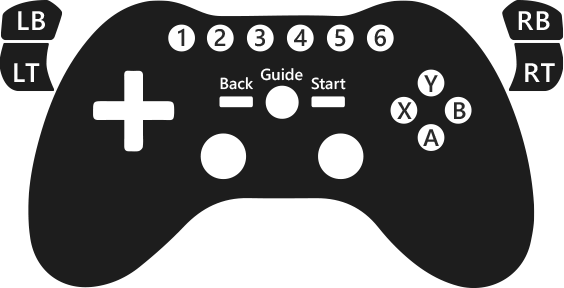
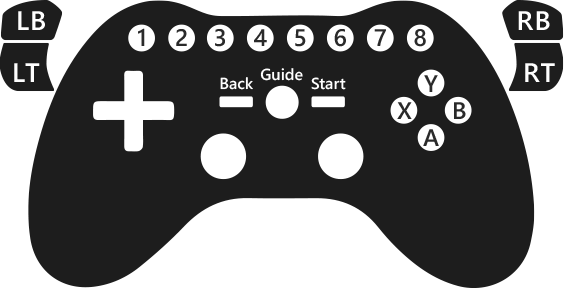
- Added support for two extra buttons.

diff --git a/DirectXInput/WindowMain.xaml b/DirectXInput/WindowMain.xaml
@@ -177,12 +177,14 @@
                         <Image Name="img_ControllerPreview_ButtonStart" Source="pack://siteoforigin:,,,/Assets/Default/Controller/ButtonPress.png" Width="25" Height="25" Margin="278,0,196,70"/>
                         <Image Name="img_ControllerPreview_ButtonGuide" Source="pack://siteoforigin:,,,/Assets/Default/Controller/ButtonPress.png" Width="30" Height="30" Margin="235,0,235,75"/>
 
-                        <Image Name="img_ControllerPreview_ButtonOne" Source="pack://siteoforigin:,,,/Assets/Default/Controller/ButtonPress.png" Width="30" Height="30" Margin="-177,0,0,188"/>
-                        <Image Name="img_ControllerPreview_ButtonTwo" Source="pack://siteoforigin:,,,/Assets/Default/Controller/ButtonPress.png" Width="30" Height="30" Margin="-107,0,0,188"/>
-                        <Image Name="img_ControllerPreview_ButtonThree" Source="pack://siteoforigin:,,,/Assets/Default/Controller/ButtonPress.png" Width="30" Height="30" Margin="-37,0,0,188"/>
-                        <Image Name="img_ControllerPreview_ButtonFour" Source="pack://siteoforigin:,,,/Assets/Default/Controller/ButtonPress.png" Width="30" Height="30" Margin="33,0,0,188"/>
-                        <Image Name="img_ControllerPreview_ButtonFive" Source="pack://siteoforigin:,,,/Assets/Default/Controller/ButtonPress.png" Width="30" Height="30" Margin="103,0,0,188"/>
-                        <Image Name="img_ControllerPreview_ButtonSix" Source="pack://siteoforigin:,,,/Assets/Default/Controller/ButtonPress.png" Width="30" Height="30" Margin="173,0,0,188"/>
+                        <Image Name="img_ControllerPreview_ButtonOne" Source="pack://siteoforigin:,,,/Assets/Default/Controller/ButtonPress.png" Width="30" Height="30" Margin="-247,0,0,188"/>
+                        <Image Name="img_ControllerPreview_ButtonTwo" Source="pack://siteoforigin:,,,/Assets/Default/Controller/ButtonPress.png" Width="30" Height="30" Margin="-177,0,0,188"/>
+                        <Image Name="img_ControllerPreview_ButtonThree" Source="pack://siteoforigin:,,,/Assets/Default/Controller/ButtonPress.png" Width="30" Height="30" Margin="-107,0,0,188"/>
+                        <Image Name="img_ControllerPreview_ButtonFour" Source="pack://siteoforigin:,,,/Assets/Default/Controller/ButtonPress.png" Width="30" Height="30" Margin="-37,0,0,188"/>
+                        <Image Name="img_ControllerPreview_ButtonFive" Source="pack://siteoforigin:,,,/Assets/Default/Controller/ButtonPress.png" Width="30" Height="30" Margin="37,0,0,188"/>
+                        <Image Name="img_ControllerPreview_ButtonSix" Source="pack://siteoforigin:,,,/Assets/Default/Controller/ButtonPress.png" Width="30" Height="30" Margin="107,0,0,188"/>
+                        <Image Name="img_ControllerPreview_ButtonSeven" Source="pack://siteoforigin:,,,/Assets/Default/Controller/ButtonPress.png" Width="30" Height="30" Margin="177,0,0,188"/>
+                        <Image Name="img_ControllerPreview_ButtonEight" Source="pack://siteoforigin:,,,/Assets/Default/Controller/ButtonPress.png" Width="30" Height="30" Margin="247,0,0,188"/>
 
                         <Image Name="img_ControllerPreview_ButtonThumbLeft" Source="pack://siteoforigin:,,,/Assets/Default/Controller/ButtonPress.png" Width="42" Height="42" Margin="178,117,280,96"/>
                         <Image Name="img_ControllerPreview_ButtonThumbRight" Source="pack://siteoforigin:,,,/Assets/Default/Controller/ButtonPress.png" Width="42" Height="42" Margin="282,117,176,96"/>
@@ -223,12 +225,14 @@
                         <Button Name="btn_SetGuide" HorizontalAlignment="Center" VerticalAlignment="Center" Style="{StaticResource ButtonImageTransparentNoBorder}" Margin="235,0,235,75" Height="30" Width="30" ToolTipService.ToolTip="Button Guide"/>
                         <Button Name="btn_SetStart" HorizontalAlignment="Center" VerticalAlignment="Center" Style="{StaticResource ButtonImageTransparentNoBorder}" Margin="275,0,195,70" Width="30" Height="20" ToolTipService.ToolTip="Button Start"/>
 
-                        <Button Name="btn_SetOne" HorizontalAlignment="Center" VerticalAlignment="Center" Style="{StaticResource ButtonImageTransparentNoBorder}" Margin="-177,0,0,188" Width="30" Height="30" ToolTipService.ToolTip="Button One"/>
-                        <Button Name="btn_SetTwo" HorizontalAlignment="Center" VerticalAlignment="Center" Style="{StaticResource ButtonImageTransparentNoBorder}" Margin="-107,0,0,188" Width="30" Height="30" ToolTipService.ToolTip="Button Two"/>
-                        <Button Name="btn_SetThree" HorizontalAlignment="Center" VerticalAlignment="Center" Style="{StaticResource ButtonImageTransparentNoBorder}" Margin="-37,0,0,188" Width="30" Height="30" ToolTipService.ToolTip="Button Three"/>
-                        <Button Name="btn_SetFour" HorizontalAlignment="Center" VerticalAlignment="Center" Style="{StaticResource ButtonImageTransparentNoBorder}" Margin="33,0,0,188" Width="30" Height="30" ToolTipService.ToolTip="Button Four"/>
-                        <Button Name="btn_SetFive" HorizontalAlignment="Center" VerticalAlignment="Center" Style="{StaticResource ButtonImageTransparentNoBorder}" Margin="103,0,0,188" Width="30" Height="30" ToolTipService.ToolTip="Button Five"/>
-                        <Button Name="btn_SetSix" HorizontalAlignment="Center" VerticalAlignment="Center" Style="{StaticResource ButtonImageTransparentNoBorder}" Margin="173,0,0,188" Width="30" Height="30" ToolTipService.ToolTip="Button Six"/>
+                        <Button Name="btn_SetOne" HorizontalAlignment="Center" VerticalAlignment="Center" Style="{StaticResource ButtonImageTransparentNoBorder}" Margin="-247,0,0,188" Width="30" Height="30" ToolTipService.ToolTip="Button One"/>
+                        <Button Name="btn_SetTwo" HorizontalAlignment="Center" VerticalAlignment="Center" Style="{StaticResource ButtonImageTransparentNoBorder}" Margin="-177,0,0,188" Width="30" Height="30" ToolTipService.ToolTip="Button Two"/>
+                        <Button Name="btn_SetThree" HorizontalAlignment="Center" VerticalAlignment="Center" Style="{StaticResource ButtonImageTransparentNoBorder}" Margin="-107,0,0,188" Width="30" Height="30" ToolTipService.ToolTip="Button Three"/>
+                        <Button Name="btn_SetFour" HorizontalAlignment="Center" VerticalAlignment="Center" Style="{StaticResource ButtonImageTransparentNoBorder}" Margin="-37,0,0,188" Width="30" Height="30" ToolTipService.ToolTip="Button Four"/>
+                        <Button Name="btn_SetFive" HorizontalAlignment="Center" VerticalAlignment="Center" Style="{StaticResource ButtonImageTransparentNoBorder}" Margin="37,0,0,188" Width="30" Height="30" ToolTipService.ToolTip="Button Five"/>
+                        <Button Name="btn_SetSix" HorizontalAlignment="Center" VerticalAlignment="Center" Style="{StaticResource ButtonImageTransparentNoBorder}" Margin="107,0,0,188" Width="30" Height="30" ToolTipService.ToolTip="Button Six"/>
+                        <Button Name="btn_SetSeven" HorizontalAlignment="Center" VerticalAlignment="Center" Style="{StaticResource ButtonImageTransparentNoBorder}" Margin="177,0,0,188" Width="30" Height="30" ToolTipService.ToolTip="Button Seven"/>
+                        <Button Name="btn_SetEight" HorizontalAlignment="Center" VerticalAlignment="Center" Style="{StaticResource ButtonImageTransparentNoBorder}" Margin="247,0,0,188" Width="30" Height="30" ToolTipService.ToolTip="Button Eight"/>
 
                         <!-- Trigger Details -->
                         <TextBlock Name="textblock_Trigger_Left" Text="0" Width="50" TextAlignment="Center" Style="{StaticResource TextBlockWhite}" HorizontalAlignment="Center" VerticalAlignment="Center" Margin="-455,-163,0,0"/>

diff --git a/DirectXInput/Controller/ControllerPreview.cs b/DirectXInput/Controller/ControllerPreview.cs
@@ -132,6 +132,8 @@ namespace DirectXInput
                     if (controller.InputCurrent.Buttons[(byte)ControllerButtons.Four].PressedRaw) { img_ControllerPreview_ButtonFour.Visibility = Visibility.Visible; } else { img_ControllerPreview_ButtonFour.Visibility = Visibility.Collapsed; }
                     if (controller.InputCurrent.Buttons[(byte)ControllerButtons.Five].PressedRaw) { img_ControllerPreview_ButtonFive.Visibility = Visibility.Visible; } else { img_ControllerPreview_ButtonFive.Visibility = Visibility.Collapsed; }
                     if (controller.InputCurrent.Buttons[(byte)ControllerButtons.Six].PressedRaw) { img_ControllerPreview_ButtonSix.Visibility = Visibility.Visible; } else { img_ControllerPreview_ButtonSix.Visibility = Visibility.Collapsed; }
+                    if (controller.InputCurrent.Buttons[(byte)ControllerButtons.Seven].PressedRaw) { img_ControllerPreview_ButtonSeven.Visibility = Visibility.Visible; } else { img_ControllerPreview_ButtonSeven.Visibility = Visibility.Collapsed; }
+                    if (controller.InputCurrent.Buttons[(byte)ControllerButtons.Eight].PressedRaw) { img_ControllerPreview_ButtonEight.Visibility = Visibility.Visible; } else { img_ControllerPreview_ButtonEight.Visibility = Visibility.Collapsed; }
 
                     if (controller.InputCurrent.Buttons[(byte)ControllerButtons.ShoulderLeft].PressedRaw) { img_ControllerPreview_ButtonShoulderLeft.Visibility = Visibility.Visible; } else { img_ControllerPreview_ButtonShoulderLeft.Visibility = Visibility.Collapsed; }
                     if (controller.InputCurrent.Buttons[(byte)ControllerButtons.ShoulderRight].PressedRaw) { img_ControllerPreview_ButtonShoulderRight.Visibility = Visibility.Visible; } else { img_ControllerPreview_ButtonShoulderRight.Visibility = Visibility.Collapsed; }

diff --git a/DirectXInput/Controller/ControllerMapping.cs b/DirectXInput/Controller/ControllerMapping.cs
@@ -79,6 +79,8 @@ namespace DirectXInput
                 else if (vMappingControllerButton == btn_SetFour) { activeController.Details.Profile.ButtonFour = ControllerButtons.None; }
                 else if (vMappingControllerButton == btn_SetFive) { activeController.Details.Profile.ButtonFive = ControllerButtons.None; }
                 else if (vMappingControllerButton == btn_SetSix) { activeController.Details.Profile.ButtonSix = ControllerButtons.None; }
+                else if (vMappingControllerButton == btn_SetSeven) { activeController.Details.Profile.ButtonSeven = ControllerButtons.None; }
+                else if (vMappingControllerButton == btn_SetEight) { activeController.Details.Profile.ButtonEight = ControllerButtons.None; }
 
                 //Save changes to Json file
                 JsonSaveObject(activeController.Details.Profile, GenerateJsonNameControllerProfile(activeController.Details.Profile));
@@ -123,6 +125,8 @@ namespace DirectXInput
                 else if (vMappingControllerButton == btn_SetFour) { activeController.Details.Profile.ButtonFour = null; }
                 else if (vMappingControllerButton == btn_SetFive) { activeController.Details.Profile.ButtonFive = null; }
                 else if (vMappingControllerButton == btn_SetSix) { activeController.Details.Profile.ButtonSix = null; }
+                else if (vMappingControllerButton == btn_SetSeven) { activeController.Details.Profile.ButtonSeven = null; }
+                else if (vMappingControllerButton == btn_SetEight) { activeController.Details.Profile.ButtonEight = null; }
 
                 //Save changes to Json file
                 JsonSaveObject(activeController.Details.Profile, GenerateJsonNameControllerProfile(activeController.Details.Profile));

diff --git a/DirectXInput/Controller/ControllerIdle.cs b/DirectXInput/Controller/ControllerIdle.cs
@@ -67,7 +67,7 @@ namespace DirectXInput
                     return false;
                 }
 
-                if (controllerStatus.InputCurrent.Buttons[(byte)ControllerButtons.One].PressedRaw || controllerStatus.InputCurrent.Buttons[(byte)ControllerButtons.Two].PressedRaw || controllerStatus.InputCurrent.Buttons[(byte)ControllerButtons.Three].PressedRaw || controllerStatus.InputCurrent.Buttons[(byte)ControllerButtons.Four].PressedRaw || controllerStatus.InputCurrent.Buttons[(byte)ControllerButtons.Five].PressedRaw || controllerStatus.InputCurrent.Buttons[(byte)ControllerButtons.Six].PressedRaw)
+                if (controllerStatus.InputCurrent.Buttons[(byte)ControllerButtons.One].PressedRaw || controllerStatus.InputCurrent.Buttons[(byte)ControllerButtons.Two].PressedRaw || controllerStatus.InputCurrent.Buttons[(byte)ControllerButtons.Three].PressedRaw || controllerStatus.InputCurrent.Buttons[(byte)ControllerButtons.Four].PressedRaw || controllerStatus.InputCurrent.Buttons[(byte)ControllerButtons.Five].PressedRaw || controllerStatus.InputCurrent.Buttons[(byte)ControllerButtons.Six].PressedRaw || controllerStatus.InputCurrent.Buttons[(byte)ControllerButtons.Seven].PressedRaw || controllerStatus.InputCurrent.Buttons[(byte)ControllerButtons.Eight].PressedRaw)
                 {
                     return false;
                 }

diff --git a/DirectXInput/Input/InputButtons.cs b/DirectXInput/Input/InputButtons.cs
@@ -59,6 +59,10 @@ namespace DirectXInput
                         return ReadButtonDataRaw(controller, controller.SupportedCurrent.OffsetButton.Five);
                     case ControllerButtons.Six:
                         return ReadButtonDataRaw(controller, controller.SupportedCurrent.OffsetButton.Six);
+                    case ControllerButtons.Seven:
+                        return ReadButtonDataRaw(controller, controller.SupportedCurrent.OffsetButton.Seven);
+                    case ControllerButtons.Eight:
+                        return ReadButtonDataRaw(controller, controller.SupportedCurrent.OffsetButton.Eight);
                 }
             }
             catch { }
@@ -156,6 +160,8 @@ namespace DirectXInput
                 UpdateButtonData(controller, ControllerButtons.Four, controller.Details.Profile.ButtonFour);
                 UpdateButtonData(controller, ControllerButtons.Five, controller.Details.Profile.ButtonFive);
                 UpdateButtonData(controller, ControllerButtons.Six, controller.Details.Profile.ButtonSix);
+                UpdateButtonData(controller, ControllerButtons.Seven, controller.Details.Profile.ButtonSeven);
+                UpdateButtonData(controller, ControllerButtons.Eight, controller.Details.Profile.ButtonEight);
 
                 return true;
             }

diff --git a/DirectXInput/Library/Classes/ControllerProfile.cs b/DirectXInput/Library/Classes/ControllerProfile.cs
@@ -245,6 +245,34 @@ namespace LibraryShared
                 }
             }
 
+            private ControllerButtons? PrivButtonSeven;
+            public ControllerButtons? ButtonSeven
+            {
+                get { return this.PrivButtonSeven; }
+                set
+                {
+                    if (this.PrivButtonSeven != value)
+                    {
+                        this.PrivButtonSeven = value;
+                        NotifyPropertyChanged();
+                    }
+                }
+            }
+
+            private ControllerButtons? PrivButtonEight;
+            public ControllerButtons? ButtonEight
+            {
+                get { return this.PrivButtonEight; }
+                set
+                {
+                    if (this.PrivButtonEight != value)
+                    {
+                        this.PrivButtonEight = value;
+                        NotifyPropertyChanged();
+                    }
+                }
+            }
+
             private ControllerButtons? PrivButtonThumbLeft;
             public ControllerButtons? ButtonThumbLeft
             {

diff --git a/DirectXInput/Input/InputMapping.cs b/DirectXInput/Input/InputMapping.cs
@@ -71,6 +71,8 @@ namespace DirectXInput
                             else if (vMappingControllerButton == btn_SetFour) { controller.Details.Profile.ButtonFour = mappingButton; }
                             else if (vMappingControllerButton == btn_SetFive) { controller.Details.Profile.ButtonFive = mappingButton; }
                             else if (vMappingControllerButton == btn_SetSix) { controller.Details.Profile.ButtonSix = mappingButton; }
+                            else if (vMappingControllerButton == btn_SetSeven) { controller.Details.Profile.ButtonSeven = mappingButton; }
+                            else if (vMappingControllerButton == btn_SetEight) { controller.Details.Profile.ButtonEight = mappingButton; }
                         }
                         catch { }
                     });

diff --git a/DirectXInput/InterfaceFunctions.cs b/DirectXInput/InterfaceFunctions.cs
@@ -418,6 +418,8 @@ namespace DirectXInput
                 btn_SetFour.PreviewMouseLeftButtonUp += Btn_MapController_Mouse_Set;
                 btn_SetFive.PreviewMouseLeftButtonUp += Btn_MapController_Mouse_Set;
                 btn_SetSix.PreviewMouseLeftButtonUp += Btn_MapController_Mouse_Set;
+                btn_SetSeven.PreviewMouseLeftButtonUp += Btn_MapController_Mouse_Set;
+                btn_SetEight.PreviewMouseLeftButtonUp += Btn_MapController_Mouse_Set;
                 button_SetController_Map.PreviewMouseLeftButtonUp += Btn_MapController_Mouse_Map;
                 button_SetController_Unmap.PreviewMouseLeftButtonUp += Btn_MapController_Mouse_Unmap;
                 button_SetController_Default.PreviewMouseLeftButtonUp += Btn_MapController_Mouse_Default;

diff --git a/DirectXInput/Library/Classes/ControllerSupported.cs b/DirectXInput/Library/Classes/ControllerSupported.cs
@@ -73,6 +73,8 @@
                 public ClassButtonDetails Four { get; set; }
                 public ClassButtonDetails Five { get; set; }
                 public ClassButtonDetails Six { get; set; }
+                public ClassButtonDetails Seven { get; set; }
+                public ClassButtonDetails Eight { get; set; }
             }
 
             public class ClassButtonDetails
